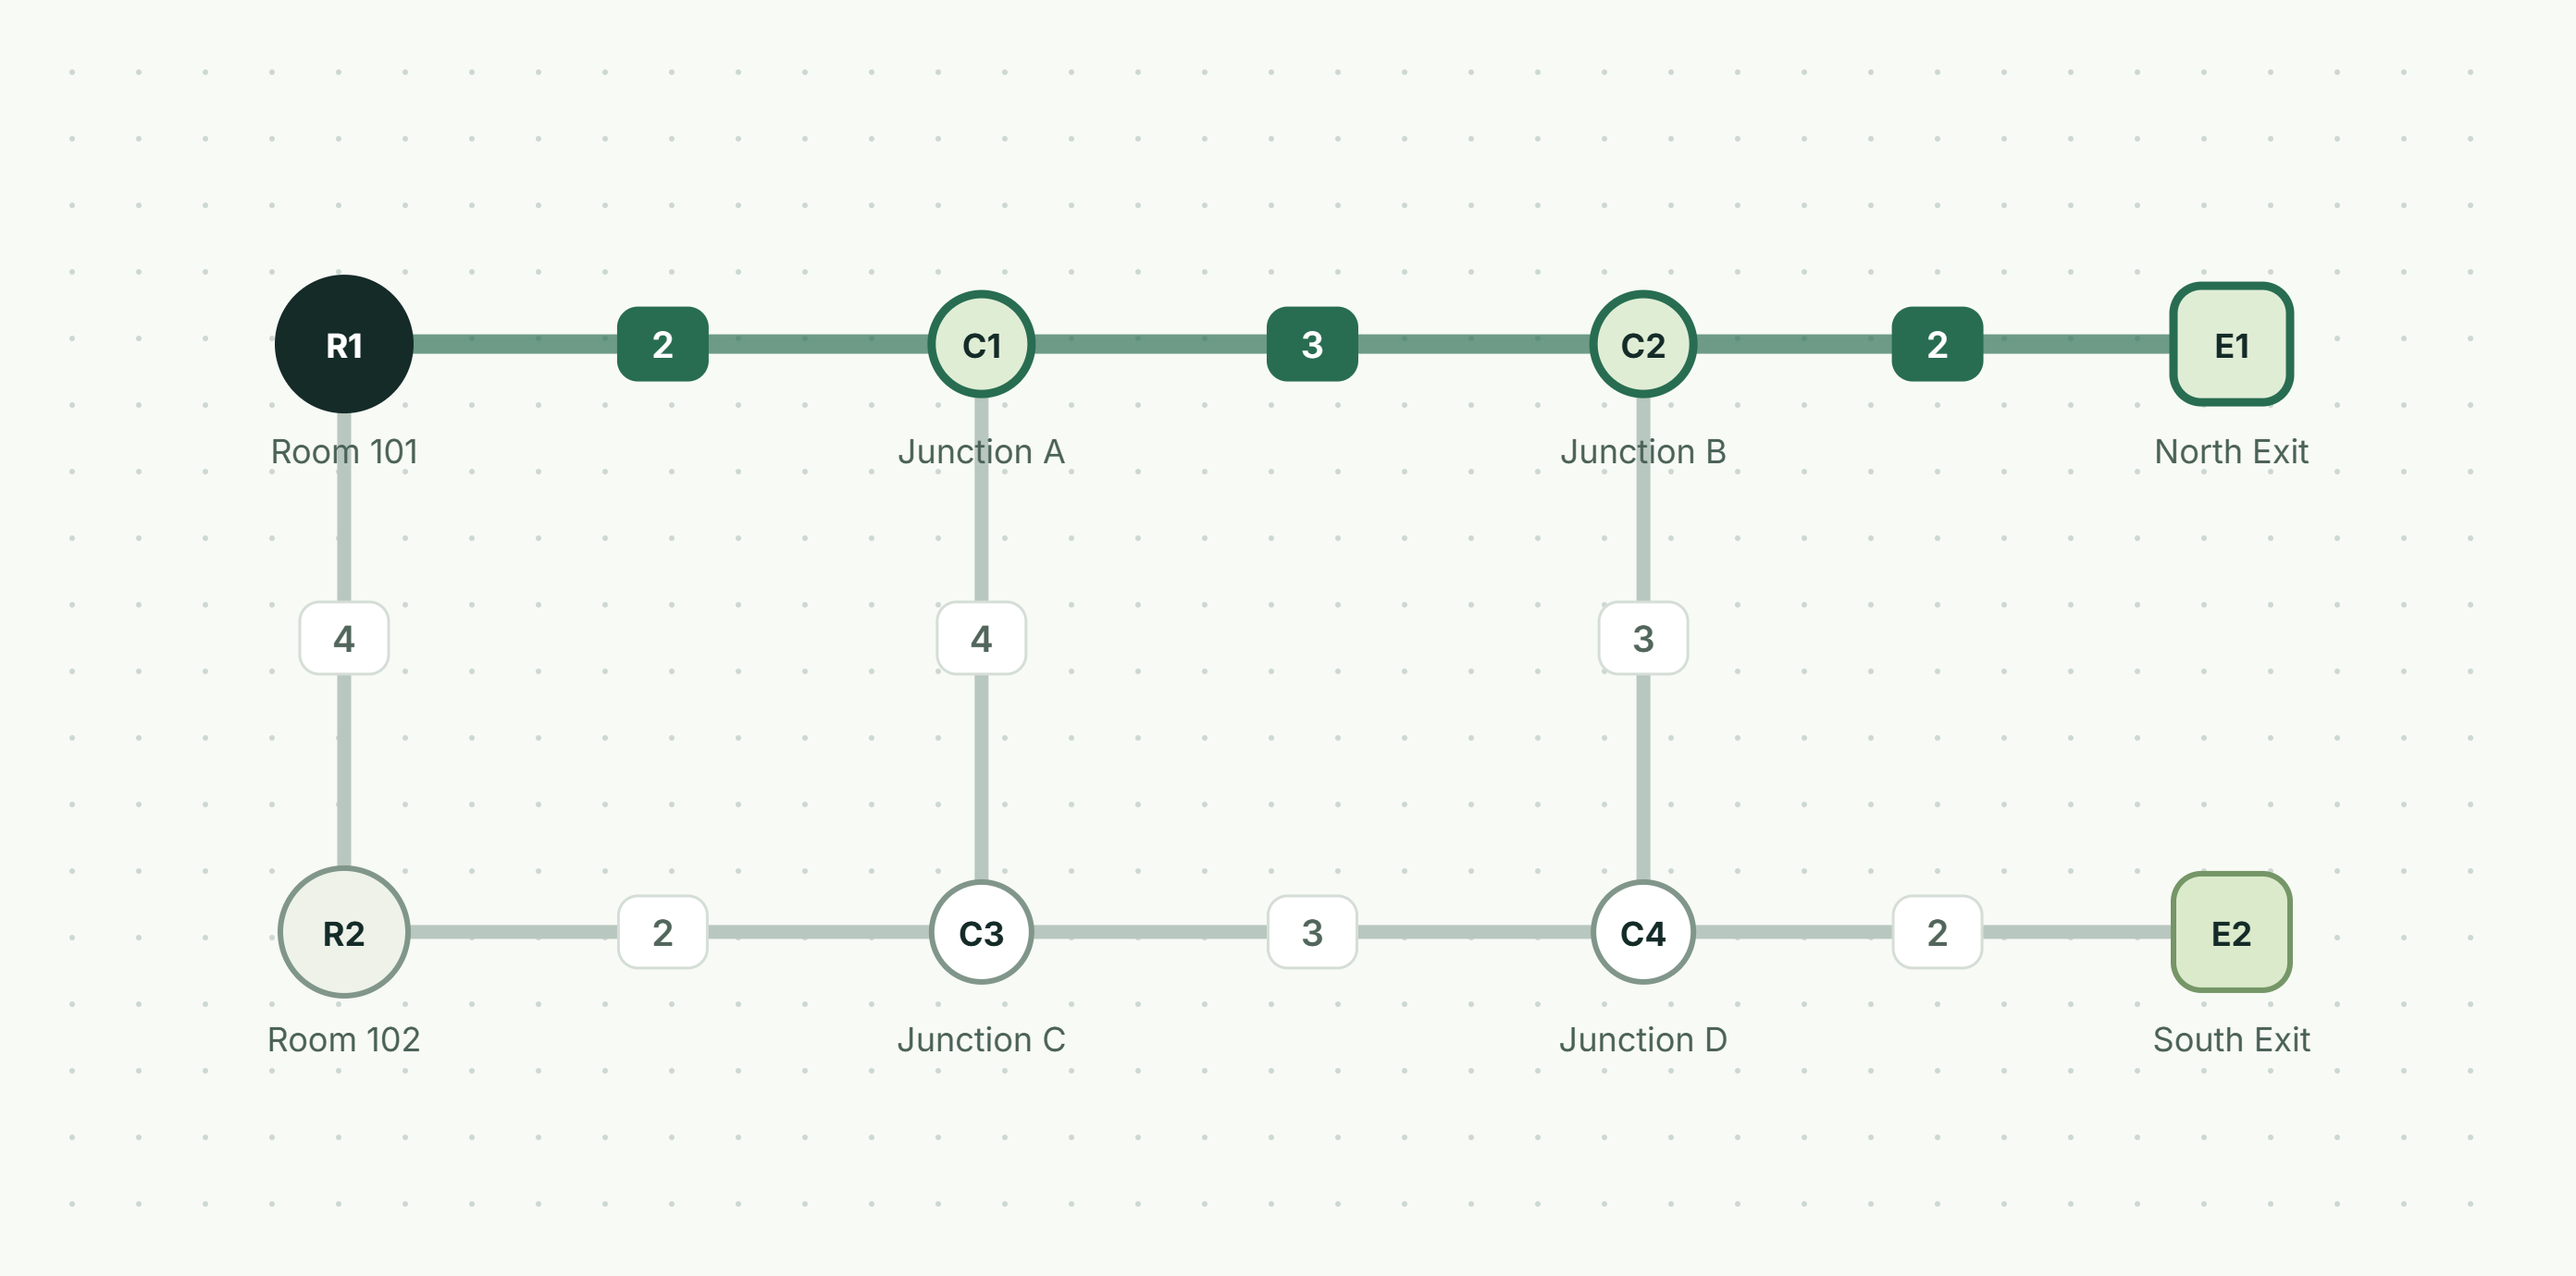
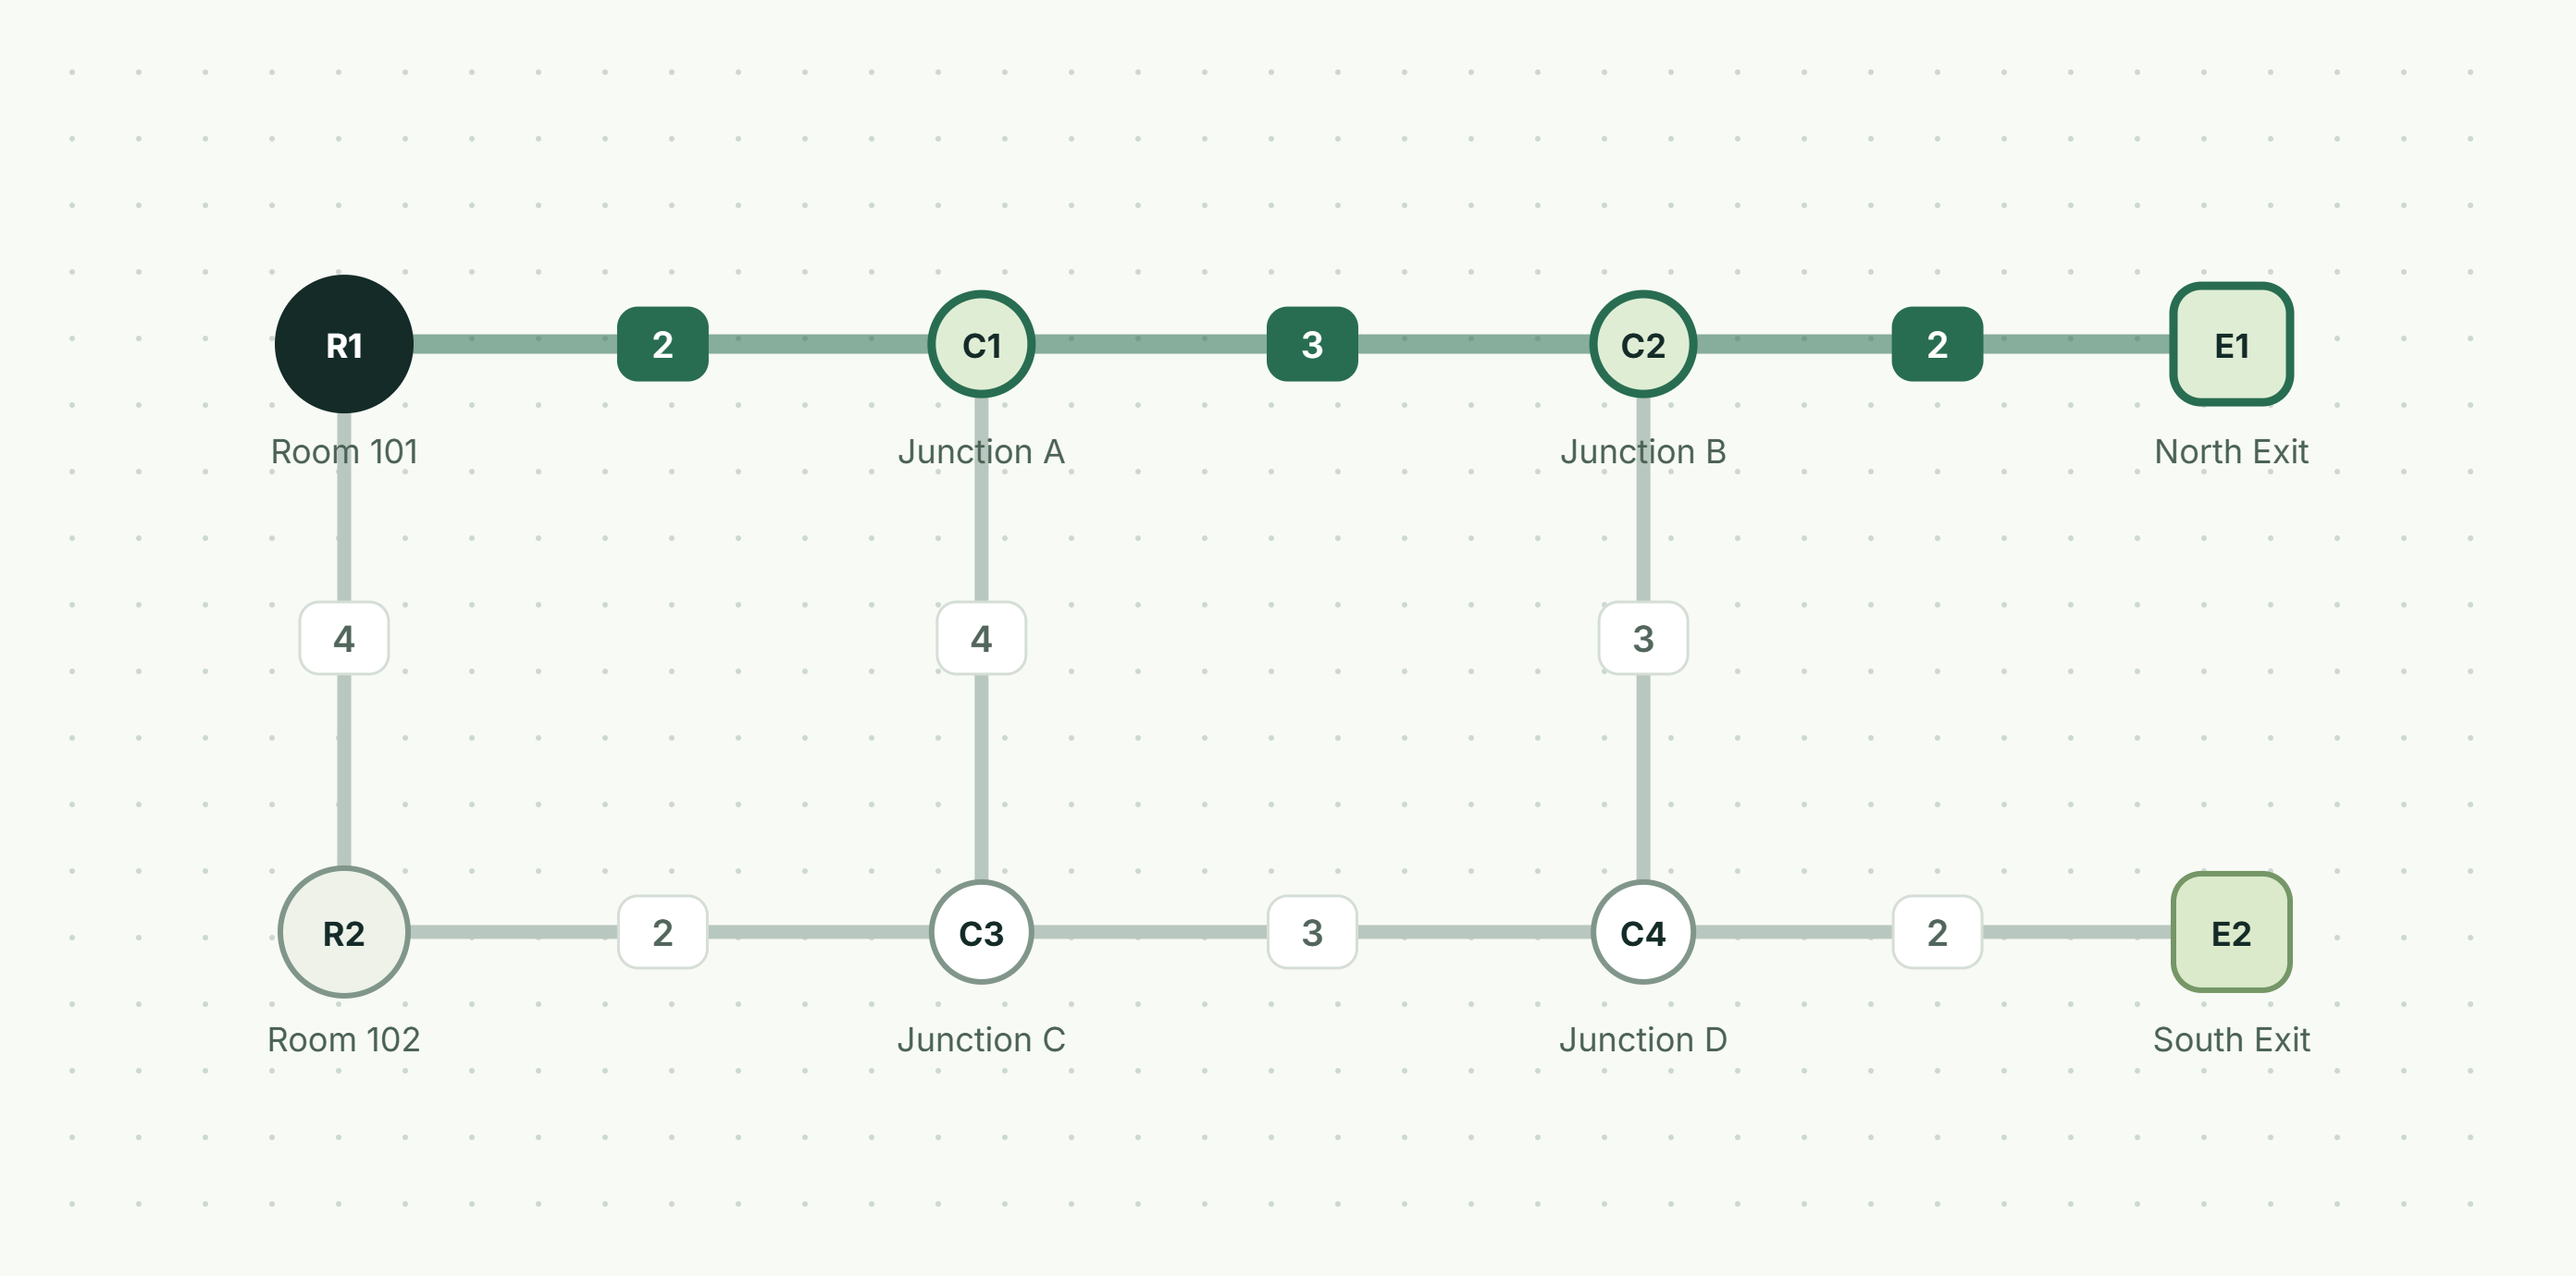
Record successful public release checks and submission evidence
Record 51 passing live Chrome assertions, ten matching public runtime assets, 38 passing standard unit tests, deployment identity and final submission values. Preserve the app source unchanged; update only documentation and test evidence.

User prompt: "requirements ar ki ki shob vlo vbe poro and deakho kothaw kono gap ase kina. vlo vbe shob deakhe shune thik koro" and "i need the live link and github ... this is your first priority now".

diff --git a/docs/SUBMISSION.md b/docs/SUBMISSION.md
@@ -1,6 +1,4 @@
-# Smart Escape practice submission values
-
-Copy the four values below into the mock submission portal. This repository is a practice project created before the official contest; it is not eligible as a fresh official-contest entry.
+# Smart Escape mock submission
 
 ## Project title
 
@@ -8,7 +6,7 @@ Smart Escape — Interactive Evacuation Route Simulator
 
 ## Description / abstract
 
-Smart Escape is a browser-based educational evacuation route simulator in English and Bangla. Users import a building JSON file, choose a room or junction, and view a minimum-cost route to an open exit using corridor weights. Blocking locations or corridors and closing exits updates the route immediately. The app validates input, reports blocked starts and unavailable routes, and resets hazards to the imported initial state. Imported data and routing calculations stay in the browser.
+Smart Escape is an educational evacuation route simulator in English and Bangla. Users import building JSON, choose a room or junction, and see the minimum-cost route to an open exit using corridor weights. Blocking locations or corridors and closing exits updates the route immediately. The app validates input, reports blocked starts and unavailable routes, and resets to the imported initial state. It supports keyboard controls, mobile map scrolling, PNG downloads and saved progress. Imported data, routing and saved progress stay in the browser.
 
 ## Live demo link
 
@@ -18,14 +16,12 @@ https://smart-escape-practice-production.up.railway.app
 
 https://github.com/abdullahalyf/vibecode-contest
 
-## Final delivery handoff to Desktop Codex
+## Identity and commit
 
-- Submission title, concise abstract and both supplied links are ready to copy. Links were not reverified during this documentation review.
-- The judge guide now describes repeated candidate sorting and path copying, removes the unsupported `O(V² + E)`/operation-count claims, and states cost → exit ID → node-ID sequence priority with ordinal UTF-16 code-unit comparisons.
-- Existing evidence in `docs/VERIFICATION.md` describes the first public deployment. The current `screenshots/browser-results.json` records 17 checks against the local development URL; it does not establish final public-deployment verification. No tests, build or browser checks were run in this documentation round.
-- Confirm the final public build matches the final pushed commit and record its hash and deployment ID. Include `src/export.js` in the static build and public-asset verification if PNG export ships.
-- Review README feature metadata: the reviewed README still says PNG export is not implemented. Update it only after confirming the delivered feature. Final screenshot review belongs to Desktop Codex.
-- Required screenshots: `screenshots/baseline.png` and `screenshots/reroute-c2.png`; optional Bangla mobile evidence: `screenshots/bangla-mobile.png`.
-- Confirm full-name spelling and obtain the registration number if the form requests them; neither should be invented.
+Full name supplied: Abdullah Alif. Registration number: not supplied. If the form asks for registration, enter your actual number. For the final submission commit use the latest pushed commit reported by Desktop Codex; `git rev-parse HEAD` also gives the complete ID. The reviewed app source commit was 0601c5e3aa5dd2681a3c117a40c0f48aa0e00785; the following evidence-only commit preserves identical app assets.
 
-The supplied challenge requires identity, repository URL, final commit ID and a public HTTPS live link, plus source, README, MIT license and baseline/reroute screenshots in the repository. The portal screenshot shows title, abstract and links but does not establish all form fields; follow the actual mock form. This review does not certify official-contest eligibility or suitability for real evacuation planning.
+## Verified delivery
+
+Standard unit tests: 38 passed. Public Chrome assertions: 51 passed. All ten public runtime files match the reviewed build; five development-only paths return 404. Railway deployment cc9e6432-83c5-4546-b77e-d9958fe00bf8 was successful; the final evidence commit is being published through the same static service. See VERIFICATION.md and RELEASE.json for details. Required screenshots are baseline.png and reroute-c2.png under screenshots/.
+
+This is the user-requested mock/practice repository. It does not establish eligibility for the official contest's fresh T+0 code and registration-based repository requirements. The form has not been submitted by Codex.

diff --git a/docs/VERIFICATION.md b/docs/VERIFICATION.md
@@ -21,7 +21,7 @@ The static build succeeds and contains exactly ten allowlisted runtime assets. N
 
 Live HTTPS: https://smart-escape-practice-production.up.railway.app
 
-The first deployment passed its original 15 acceptance checks and eight-asset content comparison. This is historical evidence only. Final public verification and release identity are recorded below when the integrated deployment is healthy. docs/DEPLOYMENT_VERIFICATION.json records SHA-256 agreement between the public runtime assets and the local build, plus absent development-only paths.
+The first deployment passed its original 15 acceptance checks and eight-asset content comparison. This is historical evidence only. The integrated release succeeded on Railway as deployment cc9e6432-83c5-4546-b77e-d9958fe00bf8, from source commit 0601c5e3aa5dd2681a3c117a40c0f48aa0e00785. All 51 browser assertions above then passed against the public HTTPS URL. All ten runtime files match the reviewed local build byte-for-byte, and five development-only paths return HTTP 404. Standard npm test passed all 38 assertions and npm run build succeeded. The subsequent evidence-only commit changes documentation and screenshots, with identical deployed app assets. docs/DEPLOYMENT_VERIFICATION.json records SHA-256 agreement between the public runtime assets and the local build, plus absent development-only paths.
 
 ## Practical limits
 
